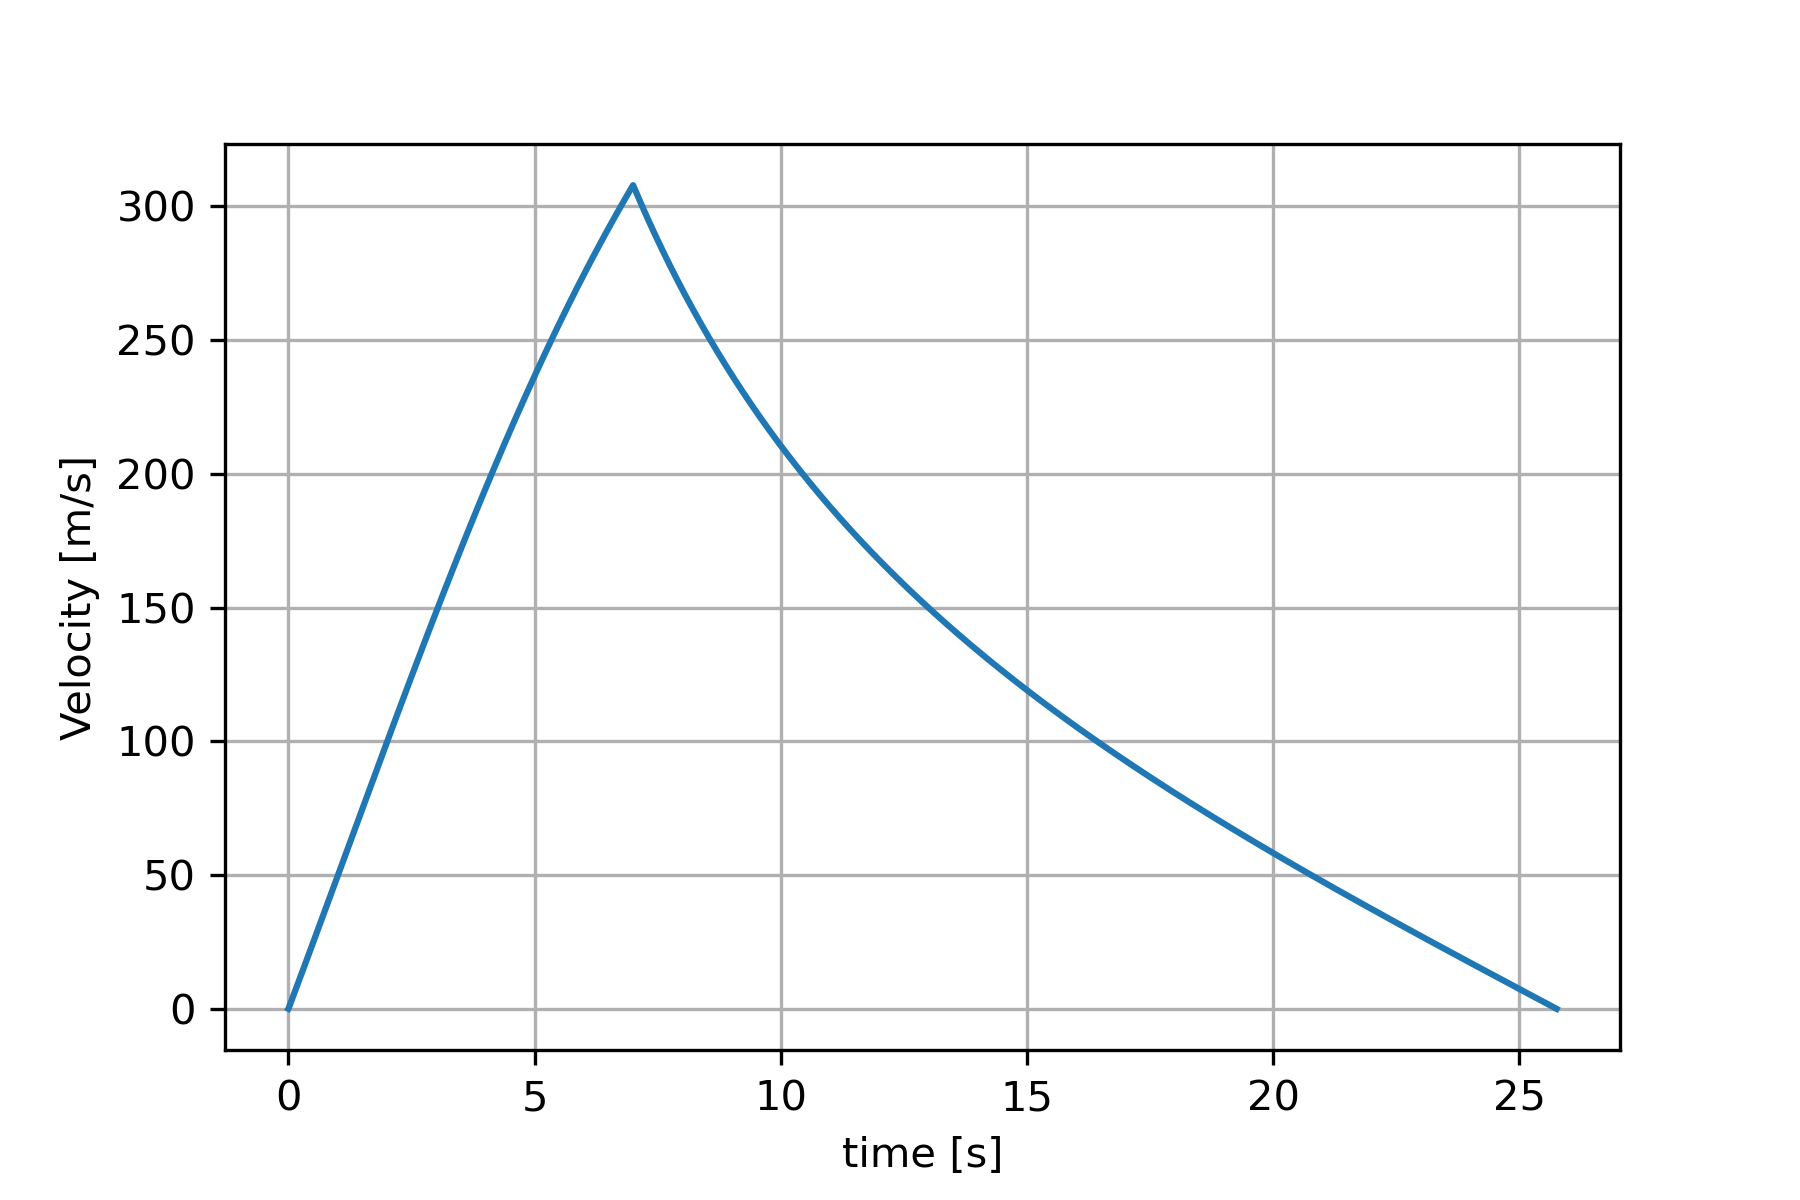
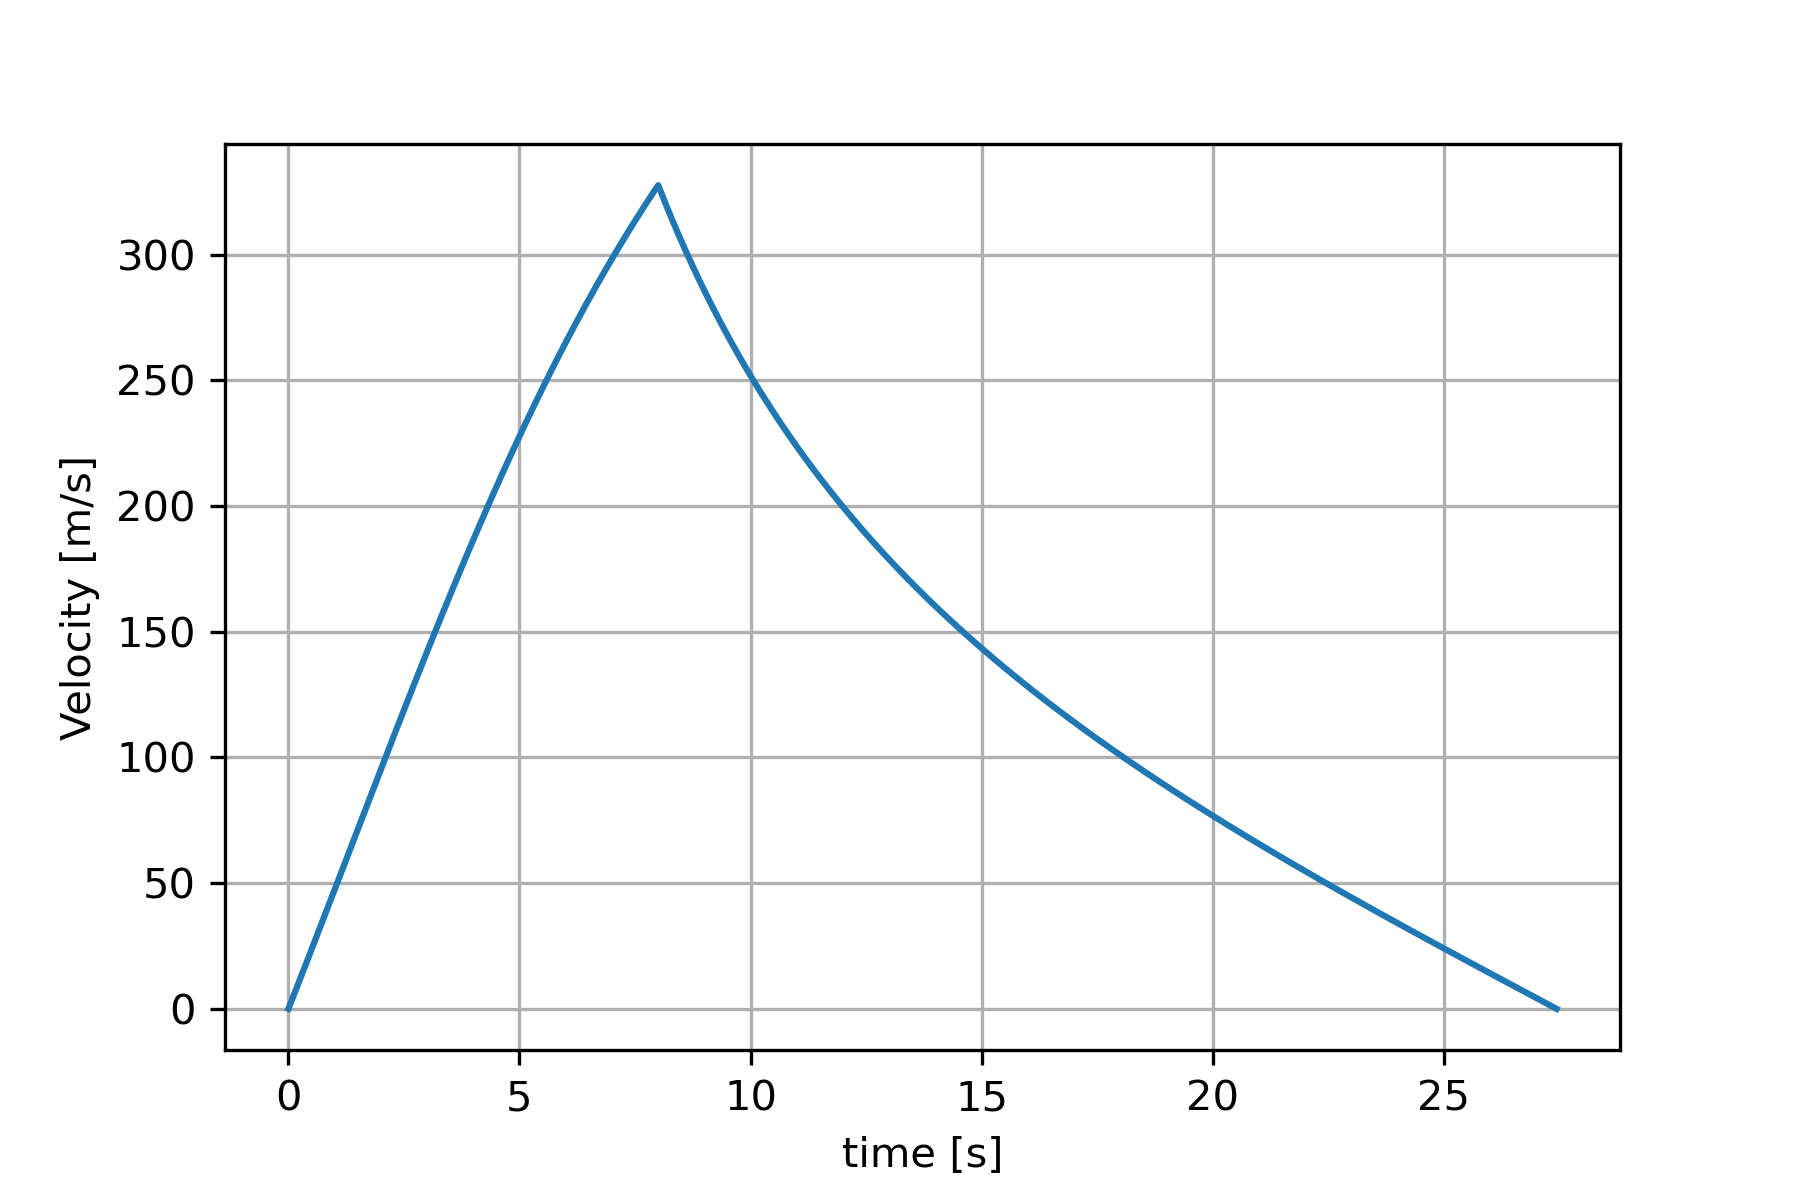
Updated Launch-sim with engine mass flowrate data

diff --git a/Trajectory/LaunchSim_00.py b/Trajectory/LaunchSim_00.py
@@ -107,14 +107,14 @@ def solver(tb, mdot, ms, Ft, s, Cd, dt):
     return m,h,v,a,F,rho,time
         
 """Rocket Parameters"""
-thrust = 1500   #N
-mdot = 0.785    #kg/s
+thrust = 1493   #N
+mdot = 0.797    #kg/s
 ms = 20         #kg
 s = np.pi*(.075**2)
 Cd = 0.75
 
-burn_time = 7  #s 
-dt = 0.002 #time step, s
+burn_time = 8  #s 
+dt = 0.001 #time step, s
 
 
 #tb, mdot, ms, Ft, s, Cd, dt
